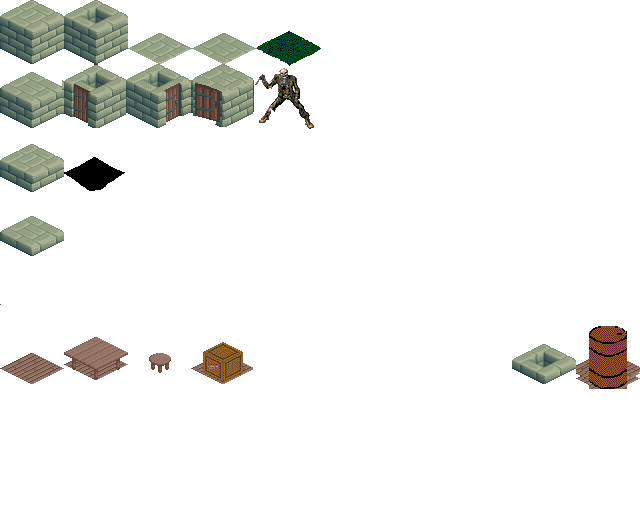
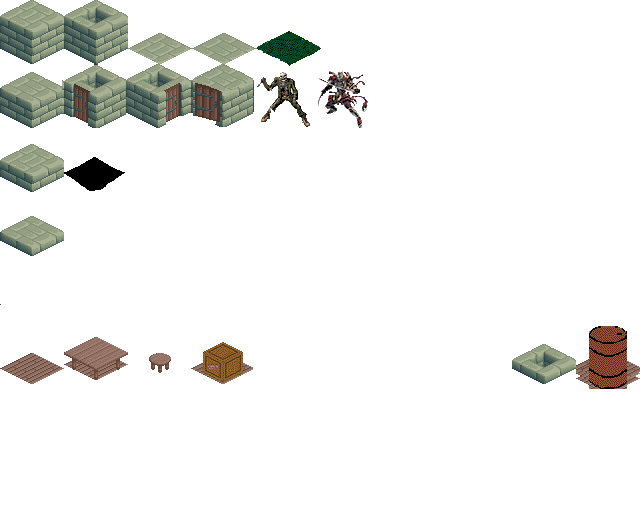
added pick up item methods and fields, seralizable to sprite , tile

Changed region(s): [[0.4062, 0.125, 0.5938, 0.25]]

diff --git a/src/Renderer/Renderer.java b/src/Renderer/Renderer.java
@@ -13,6 +13,7 @@ import java.util.Scanner;
 
 import javax.imageio.ImageIO;
 
+import gameLogic.Fruit;
 import gameLogic.Item;
 import gameLogic.Monster;
 import gameLogic.Room;
@@ -28,6 +29,20 @@ public class Renderer {
 	private BufferedImage door = getIso(64*1,64*1);
 	private BufferedImage crate = getIso(64*3,64*5);
 	private BufferedImage skelly = getIso(64*4,64*1);
+	private BufferedImage boss1 = getIso(64*5,64*1);
+	private BufferedImage Banana = getIso(64*5,64*1);
+	private BufferedImage Apple = getIso(64*5,64*1);
+	private BufferedImage Mango = getIso(64*5,64*1);
+	private BufferedImage RedPot = getIso(64*5,64*1);
+	private BufferedImage ArmorHead = getIso(64*5,64*1);
+	private BufferedImage ArmorChest = getIso(64*5,64*1);
+	private BufferedImage ArmorLegs = getIso(64*5,64*1);
+	private BufferedImage KeyRoom2 = getIso(64*5,64*1);
+	private BufferedImage KeyRoom3 = getIso(64*5,64*1);
+	private BufferedImage KeyRoom4 = getIso(64*5,64*1);
+	private BufferedImage KeyRoom5 = getIso(64*5,64*1);
+	
+	
 
 	public void drawLevel(Graphics g, Room r) {
 		Tile[][] ts = r.getTileSet();
@@ -99,6 +114,7 @@ public class Renderer {
 					case 7: case 8:						temp = new Tile(crate);			break;
 					case 9: case 10: case 11:
 					case 12: case 13: case 14:			temp = new Tile(door);	temp.setWalkable(false);		break;
+					case 99:							temp = new Tile(floor); roomName.setSpawnSpots(ts[i][j]); break;
 
 				}
 				ts[i][j] = temp;
@@ -112,9 +128,17 @@ public class Renderer {
 					Item tempItem =null;
 					int tile = scan.nextInt();
 					switch(tile) {
-					//case 0:								temp = empty; 		break;
-					//case 1:								temp = empty;		break;
-
+					case 0: tempItem = new Fruit(ts[i][j], "Banana");		temp = Banana;		break;
+					case 1: tempItem = new Fruit(ts[i][j], "Apple");		temp = Apple;		break;
+					case 2: tempItem = new Fruit(ts[i][j], "Mango");		temp = Mango;		break;
+					case 3: tempItem = new Fruit(ts[i][j], "RedPot");		temp = RedPot;		break;
+					case 4: tempItem = new Fruit(ts[i][j], "ArmorHead");	temp = ArmorHead;	break;
+					case 5: tempItem = new Fruit(ts[i][j], "ArmorChest");	temp = ArmorChest;	break;
+					case 6: tempItem = new Fruit(ts[i][j], "ArmorLegs");	temp = ArmorLegs;	break;
+					case 7: tempItem = new Fruit(ts[i][j], "KeyRoom2");		temp = KeyRoom2;	break;
+					case 8: tempItem = new Fruit(ts[i][j], "KeyRoom3");		temp = KeyRoom3;	break;
+					case 9: tempItem = new Fruit(ts[i][j], "KeyRoom4");		temp = KeyRoom4;	break;
+					case 10: tempItem = new Fruit(ts[i][j], "KeyRoom5");	temp = KeyRoom5;	break;
 					}
 					items.add(tempItem);
 					ts[i][j].setPickUpImage(temp);
@@ -128,11 +152,11 @@ public class Renderer {
 					BufferedImage temp = null;
 					int tile = scan.nextInt();
 					switch(tile) {
-					case 0:								temp = skelly; 		break;
-					case 1:								temp = skelly;		break;
+					case 0:								temp = boss1;  	break; // TODO add new monster
+					case 1:								temp = skelly; monsters.add(new Skeleton(ts[i][j])); break;
 
 					}
-					monsters.add(new Skeleton(ts[i][j]));
+					
 					ts[i][j].setMonsterImage(temp);
 
 				}
@@ -153,6 +177,11 @@ public class Renderer {
 		g2.drawImage(getSpriteIso(testSprite.getStep() %10, testSprite.getFacing(), testSprite.getName()),400, 300,null);
 
 	}
+	public void drawMultiplayerSprite(Graphics2D g2, Sprite sprite,int xoffset, int yoffset) {
+		g2.drawImage(getSpriteIso(sprite.getStep() %10, sprite.getFacing(), sprite.getName()),sprite.getCurrentX()+xoffset, sprite.getCurrentY()+yoffset,null);
+
+	}
+
 	public BufferedImage getSpriteIso(int x, String direction,String currentSpriteName) {
 		BufferedImage spriteSheet = null;
 		try {
@@ -164,16 +193,16 @@ public class Renderer {
 		return spriteSheet.getSubimage(x*(spriteSheet.getWidth()/10), 0, spriteSheet.getWidth()/10, spriteSheet.getHeight());
 	}
 
-	public void rotate(Room room) {
+	public Tile[][] rotate(Room room) {
 		Tile[][] TileSet = room.getTileSet();
 		Tile[][] rotate = new Tile[30][30];
 		for (int i = 0; i < 30; i++) {
 			for (int j = 0; j < 30; j++) {
-				rotate[i][29 - j] = TileSet[j][i];
+				rotate[i][29-j] = TileSet[j][i];
 
 			}
 		}
-		room.setTileSet(rotate);
-	}
+			return rotate;
+		}
 
 }

diff --git a/src/Renderer/RenderWindow.java b/src/Renderer/RenderWindow.java
@@ -151,7 +151,8 @@ public void paint(Graphics g){
 		}
 		if (e.getKeyCode() == KeyEvent.VK_R ) {
 		//rotate room 90 degrees clockwise
-			renderer.rotate(room);
+			room.setTileSet(renderer.rotate(room));
+			firstTime =true;
 			this.repaint();
 			}
 
@@ -179,7 +180,7 @@ public void paint(Graphics g){
 	}
 
 	public void changeRoom(String roomName){
-		firstTime =false;
+		firstTime =true;
 		room = new Room(roomName);
 		this.repaint();
 	}

diff --git a/src/Renderer/Tile.java b/src/Renderer/Tile.java
@@ -6,10 +6,11 @@ import java.awt.Image;
 import java.awt.image.BufferedImage;
 import java.io.File;
 import java.io.IOException;
+import java.io.Serializable;
 
 import javax.imageio.ImageIO;
 
-public class Tile {
+public class Tile implements Serializable {
 
 private BufferedImage backGroundImage;
 private BufferedImage pickUpImage;

diff --git a/src/Renderer/Sprite.java b/src/Renderer/Sprite.java
@@ -1,6 +1,8 @@
 package Renderer;
 
-public class Sprite{
+import java.io.Serializable;
+
+public class Sprite implements Serializable{
 	private String name;
 	private double currentX;
 	private double currentY;
